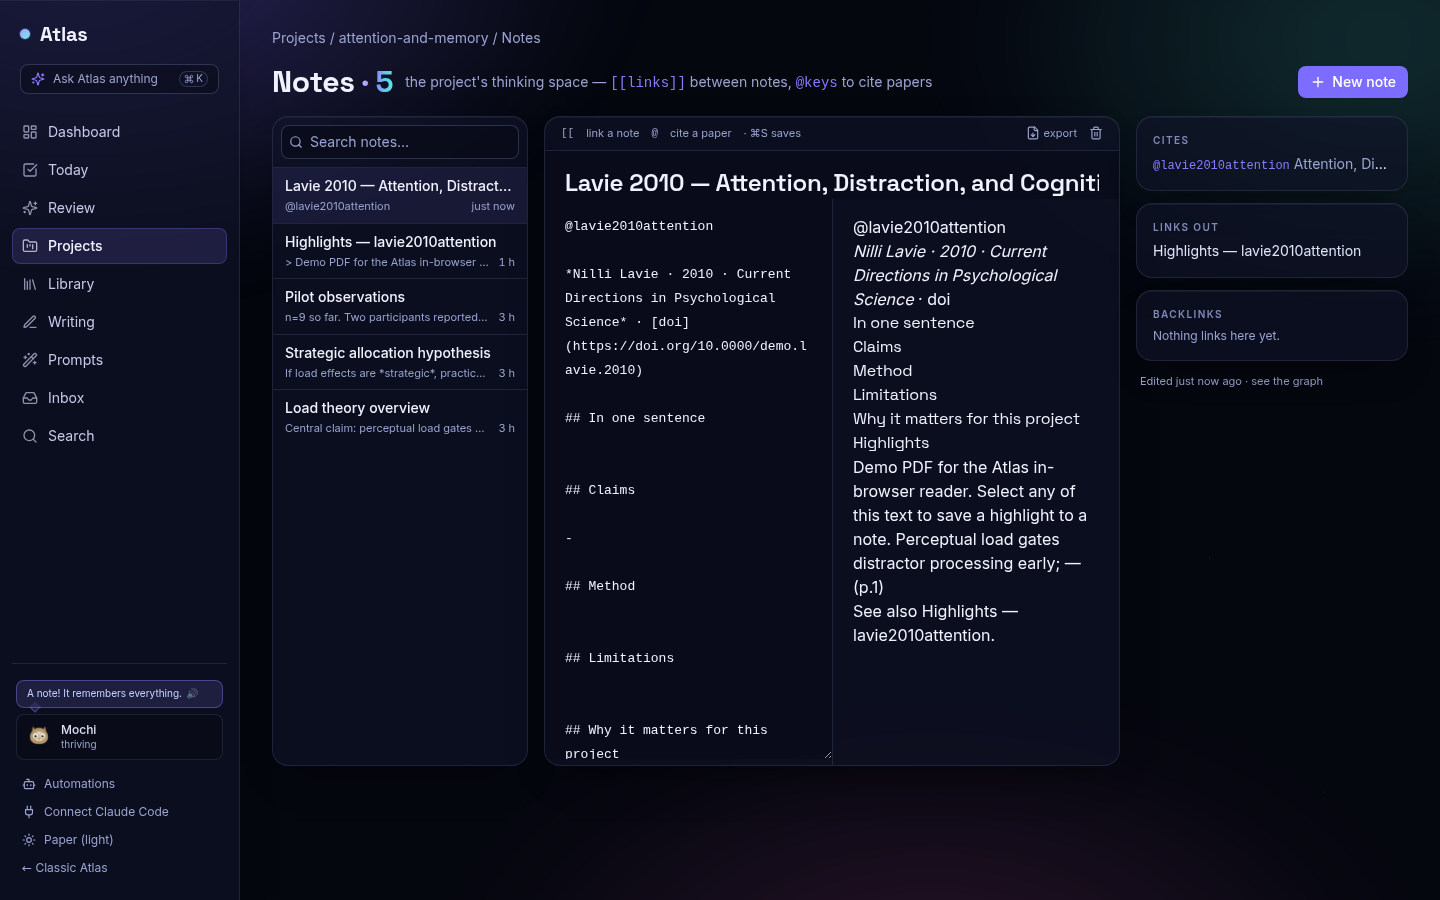
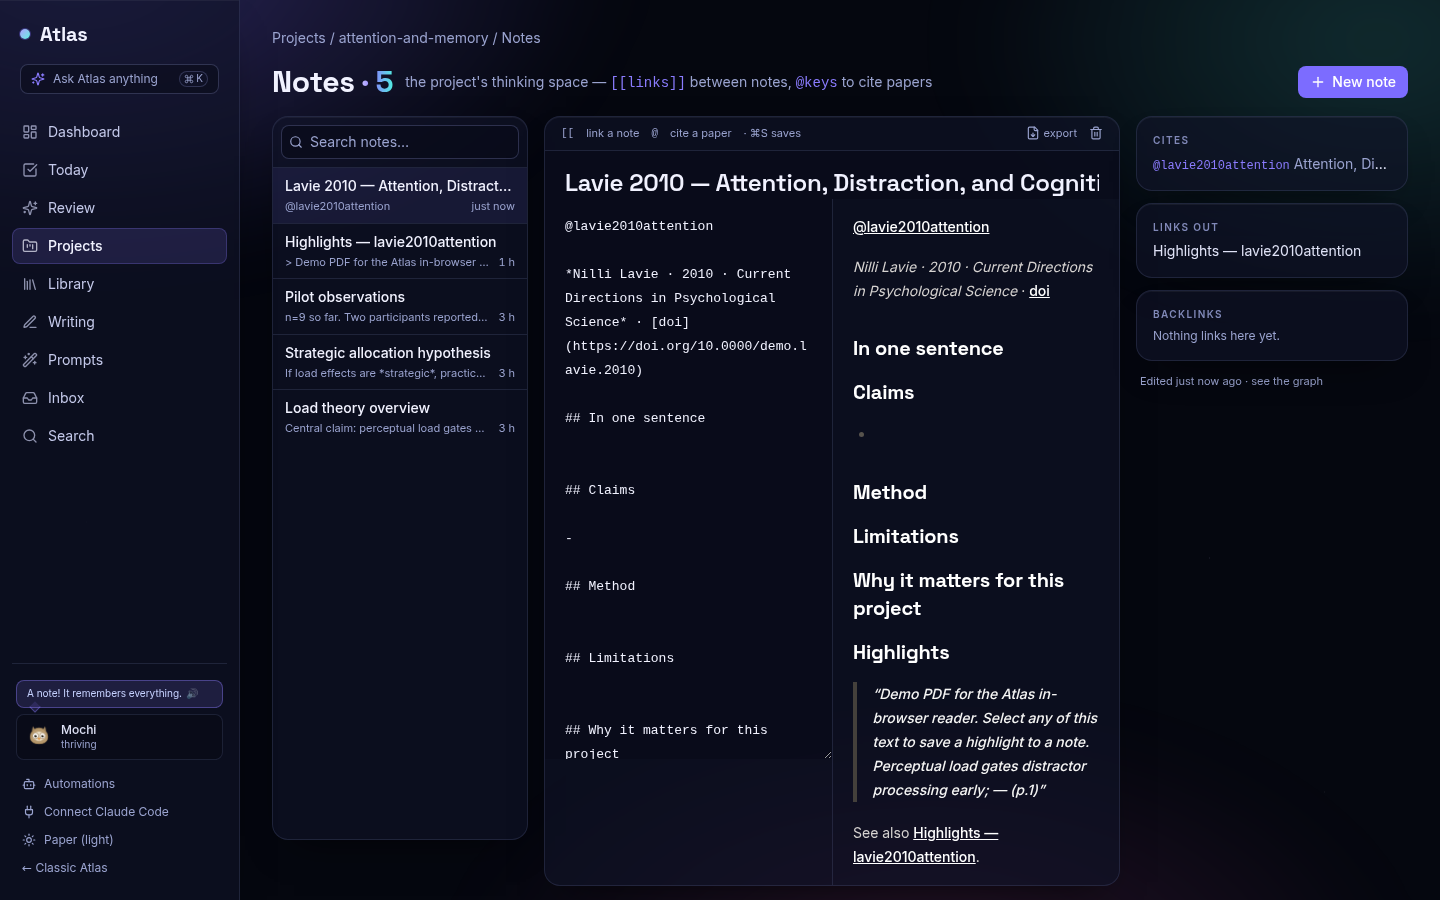
fix(css): build the typography plugin so Markdown prose is styled
The notes preview and every classic Markdown surface used .prose classes
that were never emitted; app.css now loads @tailwindcss/typography.

Changed region(s): [[0.5938, 0.2489, 0.75, 0.9644]]

diff --git a/assets/css/app.css b/assets/css/app.css
@@ -1,4 +1,5 @@
 @import "tailwindcss";
+@plugin "@tailwindcss/typography";
 
 @source "../../templates";
 @source "../../**/templates";

diff --git a/PROGRESS.md b/PROGRESS.md
@@ -2,6 +2,8 @@
 
 ## Current Status
 
+- **fix(css): Markdown "prose" styles were never built (2026-09-06).** `assets/css/app.css` now loads `@plugin "@tailwindcss/typography"` (bundled in the standalone Tailwind CLI) — headings, block quotes, lists, code and links in the notes preview and every classic Markdown surface were rendering unstyled. Verified on the literature-note preview; observatory/workbench guard tests green.
+
 - **★ NOTES v2 SLICE 3 SHIPPED (2026-09-06, #323): templates + export with a bibliography. Notes + graph judged best-in-field; next area: Writing studio.** `notes/templates.py`: `TEMPLATES`, `render_template` (literature from a reference with highlights; daily from `week_focus`; meeting; experiment; blank), `create_from_template` (unique titles, daily returns today's), `export_note` (body + References via `bibliography`). API `/notes/templates/`, `/notes/from-template/` (`NoteFromTemplateSerializer`), `/notes/{id}/export/`. MCP `create_note_from_template`, `export_note` (68 tools). UI: template cards on the New-note pane (literature card with inline paper search), "export" in the editor toolbar (clipboard + toast), Library detail "Note" button (literature note in the paper's project, then navigates). Tests: 5 template/export tests (+ API) + client test; suite 968 green. Playwright: Library → Note created "Lavie 2010 — Attention, Distraction…" with @key, metadata, DOI and a Highlights section; export copied Markdown ending in an APA References entry; Daily note "2026-09-06" listed 3 focus items with lateness (docs/screenshots/notes-literature.png).
 
 - **★ NOTES v2 SLICE 2 SHIPPED (2026-09-06, #321): Graph v2.** Vendored `static/vendor/forcegraph/{3d-force-graph,force-graph}.min.js` (+ README with versions/licence); classic template and `Graph.tsx` load from `/static/vendor/…` (guard test `test_graph_libraries_are_vendored_for_the_desktop`). `core/graph.py`: node facts (year, venue, authors, citations, has_pdf, highlights, words, updated_at, degree, app_url) + `stats` (references, notes, links, by_kind, orphans, hubs). Graph.tsx rewritten: toolbar (search + match count + Enter focuses, kind + link-kind toggles, hide unconnected, focus chip with widen/narrow), hubs card, node panel (facts, Open, Focus, neighbours), hover dimming, 3D fly-to, particles on citations, theme-aware canvas, 2D toggle remembered, Esc clears. Fixed a page crash (library cleared React-owned children inside the mount div → mount div is now childless; overlays are siblings). Tests: graph facts/stats + vendoring guard; api shape test updated; suite 962 green. Playwright (swiftshader WebGL): vendored script requested, hubs listed, clicked a hub → panel with 18 neighbours + focus chip, search "load" → 3 matches, 2D canvas rendered (docs/screenshots/graph3d.png). Next: judge Notes + graph (ideas: note templates — literature note / meeting / experiment; daily note; export a note with a bibliography; graph time-slider by year) — then Writing studio.
